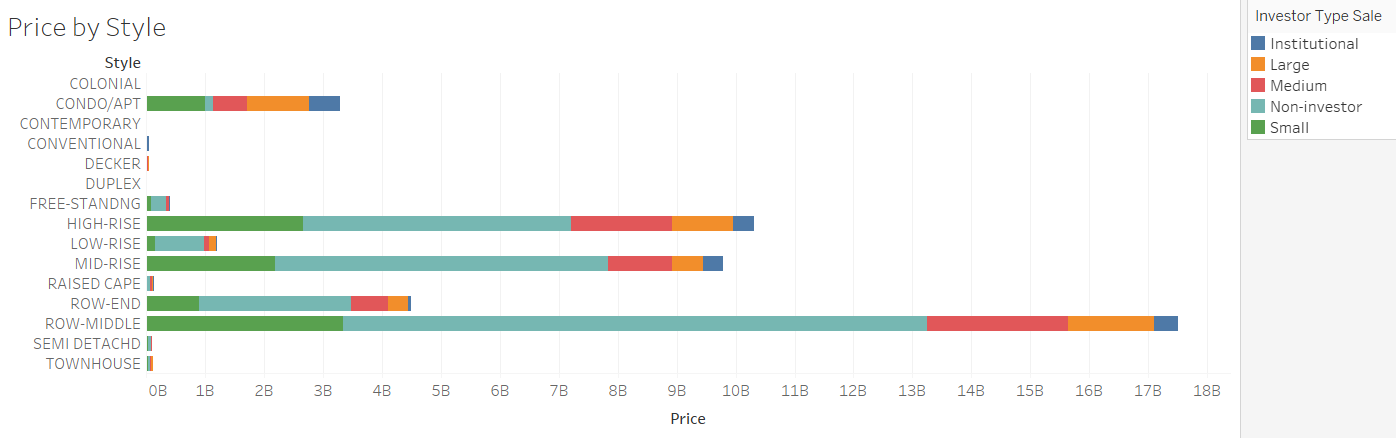
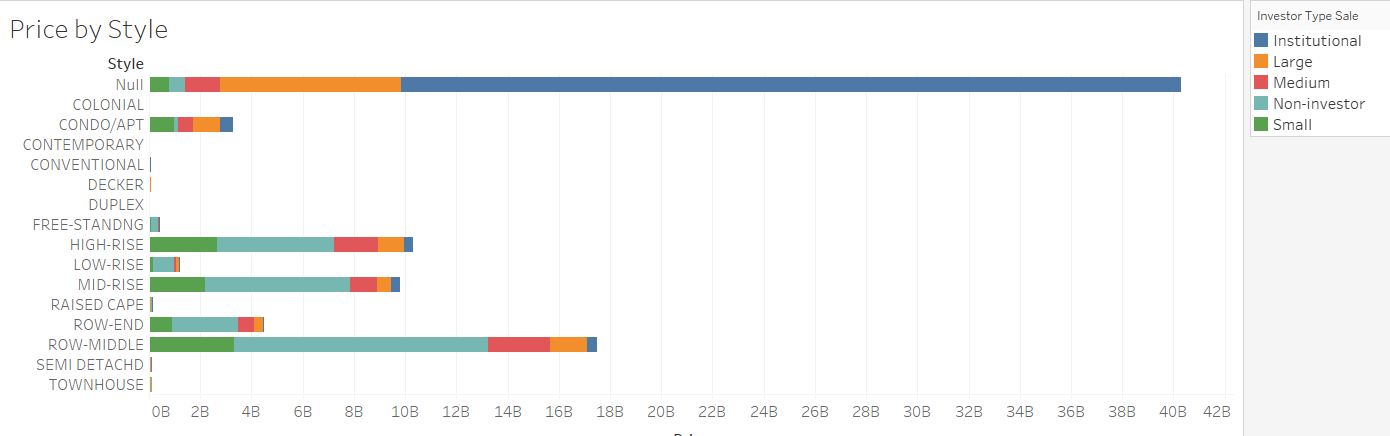
3 images

diff --git a/index.html b/index.html
@@ -100,9 +100,10 @@
 				uniqueness, and validity. Following visualisation better explain the dataset's quality.</p>
 				
 			<figure>
-				<img src="Capture 1.PNG" alt="" style="width: 1000px; height: auto;"/>
+				<img src="Capture 1.PNG" alt="" style="width: 1200px; height: auto;"/>
 				<figcaption>
-				ENTER IMAGE CAPTION HERE.
+					This bar chart shows the total price of properties for different style categories. The bars have been further colour coded to investigate the investor type. As we can see, this dataset has a large number of NULL values probably for properties which either do not fall under a typical style or have not been categorised properly.  We can also see very few Colonial, duplex or decker houses built in the city. Hence, two further questions regarding data distribution arise: (1) what are the other features of this NULL records? Were these bought in cash? etc (2) Have the contemporary houses been categorised as Condo, low rise and such subcategories? We will explore these concepts subsequently.
+					
 				</figcaption>
 			</figure>
 
@@ -114,7 +115,7 @@
 			</figure>
 
 			<figure>
-				<img src="IMAGE_FILENAME" alt="" />
+				img src="Capture 3.PNG" alt="" style="width: 1200px; height: auto;"/>
 				<figcaption>
 				ENTER IMAGE CAPTION HERE.
 				</figcaption>
